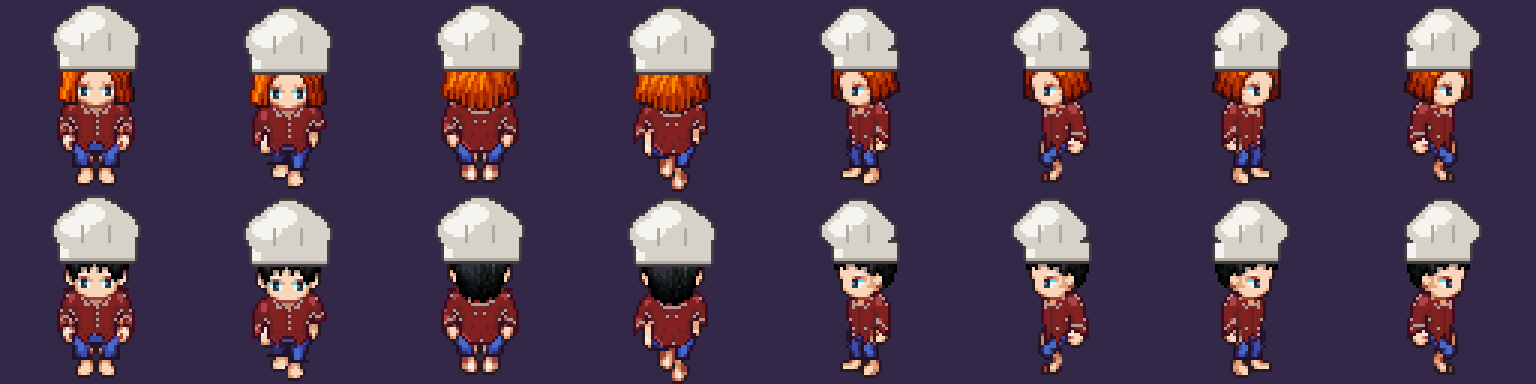
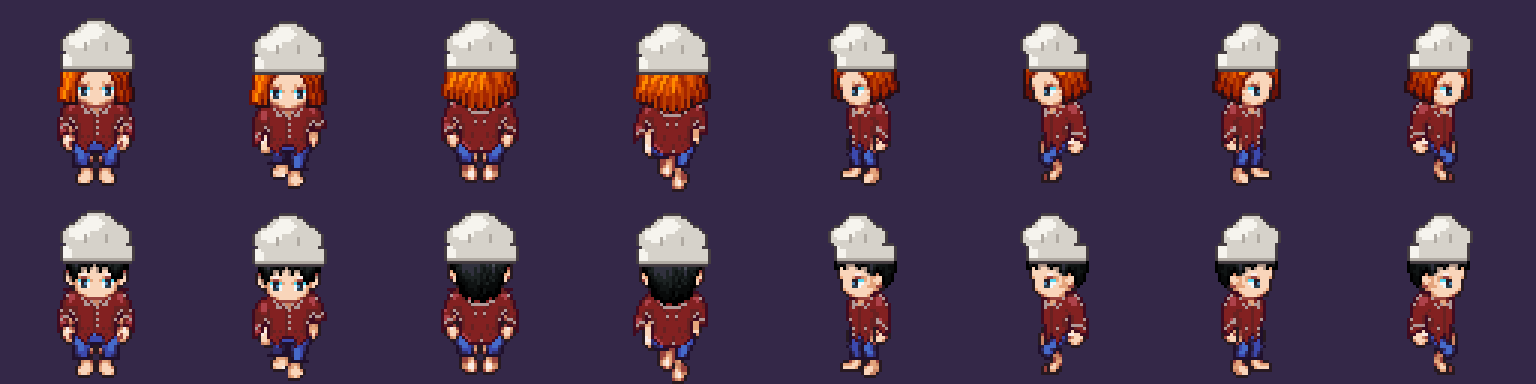
요리사 모자 시안: 부푼 윗부분을 낮고 작게, 띠를 머리 너비에 맞게
Claude-Session: https://claude.ai/code/session_01HhJ2NoNCjk5kaA3GWL7UDs

diff --git a/tools/iso/lpc/chef_hat.py b/tools/iso/lpc/chef_hat.py
@@ -19,12 +19,12 @@ for i in range(20):
     if not cell.any(): continue
     ys, xs = np.nonzero(cell); top, cx = ys.min(), int(round(xs.mean())); w = xs.max() - xs.min() + 1
     side = i >= 10   # 옆모습은 모자를 뒤로 살짝
-    puff = Image.new('RGBA', (64, 64), (0, 0, 0, 0)); d = ImageDraw.Draw(puff); rx = max(7, w // 2 + 1); top += 5   # 띠가 이마 위 머리카락을 덮게
-    d.rectangle([cx - rx, top - 3, cx + rx, top + 2], fill=W1 + (255,)); d.rectangle([cx - rx, top - 3, cx - rx + 2, top + 2], fill=W0 + (255,)); d.line([(cx - rx, top + 2), (cx + rx, top + 2)], fill=W2 + (255,))   # 띠
+    puff = Image.new('RGBA', (64, 64), (0, 0, 0, 0)); d = ImageDraw.Draw(puff); rx = max(7, w // 2); top += 5   # 띠가 이마 위 머리카락을 덮게
+    d.rectangle([cx - rx, top - 2, cx + rx, top + 2], fill=W1 + (255,)); d.rectangle([cx - rx, top - 2, cx - rx + 2, top + 2], fill=W0 + (255,)); d.line([(cx - rx, top + 2), (cx + rx, top + 2)], fill=W2 + (255,))   # 띠
     sh = (-1 if i < 15 else 1) * 2 if side else 0
-    for dx, dy, r in ((-rx * .5, -7, rx * .66), (rx * .5, -7, rx * .66), (0, -11, rx * .72)): d.ellipse([cx + sh + dx - r, top + dy - r * .78, cx + sh + dx + r, top + dy + r * .78], fill=W1 + (255,))
-    for dx, dy, r in ((-rx * .55, -8, rx * .44), (-rx * .1, -12, rx * .44)): d.ellipse([cx + sh + dx - r, top + dy - r * .65, cx + sh + dx + r * .7, top + dy + r * .5], fill=W0 + (255,))
-    for dx in (-rx * .35, rx * .35): d.line([(cx + sh + dx, top - 4), (cx + sh + dx, top - 9)], fill=W2 + (255,))
+    for dx, dy, r in ((-rx * .42, -5, rx * .52), (rx * .42, -5, rx * .52), (0, -8, rx * .58)): d.ellipse([cx + sh + dx - r, top + dy - r * .72, cx + sh + dx + r, top + dy + r * .72], fill=W1 + (255,))   # 부푼 윗부분을 낮고 작게
+    for dx, dy, r in ((-rx * .45, -6, rx * .36), (-rx * .05, -9, rx * .36)): d.ellipse([cx + sh + dx - r, top + dy - r * .6, cx + sh + dx + r * .7, top + dy + r * .45], fill=W0 + (255,))
+    for dx in (-rx * .3, rx * .3): d.line([(cx + sh + dx, top - 4), (cx + sh + dx, top - 6)], fill=W2 + (255,))
     p = np.array(puff); al = p[..., 3] > 0; ring = np.zeros_like(al)
     ring[1:] |= al[:-1]; ring[:-1] |= al[1:]; ring[:, 1:] |= al[:, :-1]; ring[:, :-1] |= al[:, 1:]; ring &= ~al
     under = np.zeros_like(al); under[top + 3:top + 4, :] = True   # 띠 아래 줄은 머리카락 위에 얹히니까 테두리를 그려요
